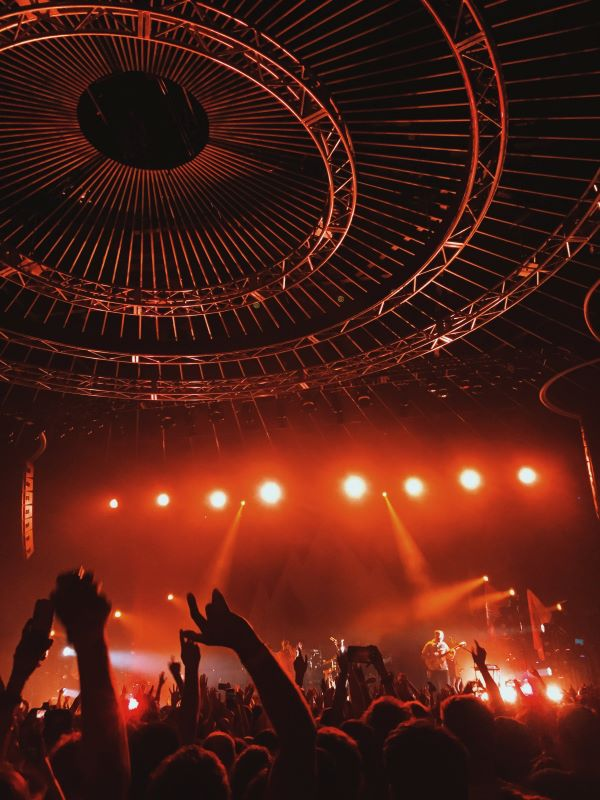
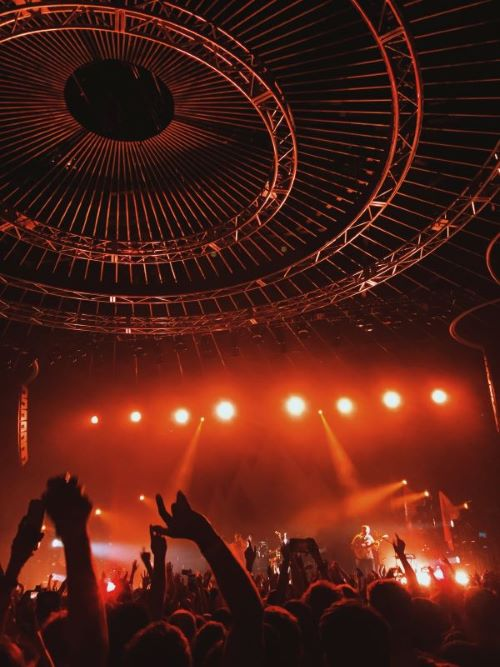
resize and convert images

diff --git a/index.html b/index.html
@@ -74,16 +74,16 @@
 				</div>
 				<div class="carousel-inner">
 					<div class="carousel-item active">
-						<img src="./assets/images/slider/walking-man2.jpg" 
-							srcset="./assets/images/slider/walking-man2.jpg 1920w, ./assets/images/mobile/mob-sl-2.jpg 400w" class="d-block w-100" alt="Un homme marche sur un passage piéton">
+						<img src="./assets/images/slider/walking-man.webp" 
+							srcset="./assets/images/slider/walking-man.webp 1920w, ./assets/images/mobile/mob-sl-2.webp 400w" class="d-block w-100" alt="Un homme marche sur un passage piéton">
 					</div>
 					<div class="carousel-item">
-						<img src="./assets/images/slider/audience2.jpg" 
-							srcset="./assets/images/slider/audience2.jpg 1920w, ./assets/images/mobile/mob-sl-1.jpg 400w" class="d-block w-100" alt="Le public profite du concert">
+						<img src="./assets/images/slider/audience.webp" 
+							srcset="./assets/images/slider/audience.webp 1920w, ./assets/images/mobile/mob-sl-1.webp 400w" class="d-block w-100" alt="Le public profite du concert">
 					</div>
 					<div class="carousel-item">
-						<img src="./assets/images/slider/wedding2.jpg" 
-							srcset="./assets/images/slider/wedding2.jpg 1920w, ./assets/images/mobile/mob-sl-3.jpg 400w" class="d-block w-100" alt="Les mariés s'embrassent sur la piste devant les invités">
+						<img src="./assets/images/slider/wedding.webp" 
+							srcset="./assets/images/slider/wedding.webp 1920w, ./assets/images/mobile/mob-sl-3.webp 400w" class="d-block w-100" alt="Les mariés s'embrassent sur la piste devant les invités">
 					</div>
 				</div>
 				<button class="carousel-control-prev" type="button" data-bs-target="#carouselExampleIndicators" data-bs-slide="prev">
@@ -99,7 +99,7 @@
 
 		<section id="about">
 			<div class="picture left">
-				<img src="./assets/images/nina2.jpg" srcset="./assets/images/nina2.jpg 500w" alt="Portrait de Nina Carducci">
+				<img src="./assets/images/nina2.webp" srcset="./assets/images/nina2.webp 500w" alt="Portrait de Nina Carducci">
 			</div>
 			<div id="about-me">
 				<h1 class="about-me__title">A propos de moi</h1>
@@ -113,24 +113,24 @@
 			<h1 class="title">Portfolio</h1>
 			<div class="container py-3">
 				<div class="gallery" style="display: none">
-					<img data-gallery-tag="Concert" class="gallery-item" src="./assets/images/gallery/concerts/concert-audience.jpg" 
-						srcset="./assets/images/gallery/concerts/concert-audience.jpg 600w" alt="Des bras levés pendant un concert avec la scène au second plan"/>
-					<img data-gallery-tag="Entreprises" class="gallery-item" src="./assets/images/gallery/entreprise/businessman2.jpg" 
-						srcset="./assets/images/gallery/entreprise/businessman2.jpg 500w" alt="Un homme en costume avec une cravate bordeau et une montre"/>
-					<img data-gallery-tag="Entreprises" class="gallery-item" src="./assets/images/gallery/entreprise/business-women2.jpg" 
-						srcset="./assets/images/gallery/entreprise/business-women2.jpg 500w" alt="Deux femmes rigolant lors d'une réunion de travail"/>
-					<img data-gallery-tag="Mariages" class="gallery-item" src="./assets/images/gallery/mariage/wedding-hands2.jpg" 
-						srcset="./assets/images/gallery/mariage/wedding-hands2.jpg 500w" alt="Deux paires de mains prêtes à s'enlacer"/>
-					<img data-gallery-tag="Portrait" class="gallery-item" src="./assets/images/gallery/portraits/portrait-woman2.jpg" 
-						srcset="./assets/images/gallery/portraits/portrait-woman2.jpg 500w" alt="Portrait d'un homme fermant les yeux"/>
-					<img data-gallery-tag="Mariages" class="gallery-item" src="./assets/images/gallery/mariage/wedding-couple2.jpg" 
-						srcset="./assets/images/gallery/mariage/wedding-couple2.jpg 500w" alt="Un couple de jeunes mariés qui se regarde avec un palmier derrière eux"/>
-					<img data-gallery-tag="Portrait" class="gallery-item" src="./assets/images/gallery/portraits/portrait-woman2.jpg" 
-						srcset="./assets/images/gallery/portraits/portrait-woman2.jpg 500w" alt="Portrait d'une jeune femme avec des lunettes qui regarde vers le sol"/>
-					<img data-gallery-tag="Concert" class="gallery-item" src="./assets/images/gallery/concerts/concert-singer2.jpg" 
-						srcset="./assets/images/gallery/concerts/concert-singer2.jpg 500w" alt="Un chanteur fait un signe de la main en direction de la foule"/>
-					<img data-gallery-tag="Entreprises" class="gallery-item" src="./assets/images/gallery/entreprise/business-woman2.jpg" 
-						srcset="./assets/images/gallery/entreprise/business-woman2.jpg 500w" alt="Une jeune femme assise à son bureau derrière son ordinateur en train de rigoler"/>
+					<img data-gallery-tag="Concert" class="gallery-item" src="./assets/images/gallery/concerts/concert-audience.webp" 
+						srcset="./assets/images/gallery/concerts/concert-audience.webp 600w" alt="Des bras levés pendant un concert avec la scène au second plan"/>
+					<img data-gallery-tag="Entreprises" class="gallery-item" src="./assets/images/gallery/entreprise/businessman2.webp" 
+						srcset="./assets/images/gallery/entreprise/businessman2.webp 500w" alt="Un homme en costume avec une cravate bordeau et une montre"/>
+					<img data-gallery-tag="Entreprises" class="gallery-item" src="./assets/images/gallery/entreprise/business-women2.webp" 
+						srcset="./assets/images/gallery/entreprise/business-women2.webp 500w" alt="Deux femmes rigolant lors d'une réunion de travail"/>
+					<img data-gallery-tag="Mariages" class="gallery-item" src="./assets/images/gallery/mariage/wedding-hands2.webp" 
+						srcset="./assets/images/gallery/mariage/wedding-hands2.webp 500w" alt="Deux paires de mains prêtes à s'enlacer"/>
+					<img data-gallery-tag="Portrait" class="gallery-item" src="./assets/images/gallery/portraits/portrait-woman2.webp" 
+						srcset="./assets/images/gallery/portraits/portrait-woman2.webp 500w" alt="Portrait d'un homme fermant les yeux"/>
+					<img data-gallery-tag="Mariages" class="gallery-item" src="./assets/images/gallery/mariage/wedding-couple2.webp" 
+						srcset="./assets/images/gallery/mariage/wedding-couple2.webp 500w" alt="Un couple de jeunes mariés qui se regarde avec un palmier derrière eux"/>
+					<img data-gallery-tag="Portrait" class="gallery-item" src="./assets/images/gallery/portraits/portrait-woman2.webp" 
+						srcset="./assets/images/gallery/portraits/portrait-woman2.webp 500w" alt="Portrait d'une jeune femme avec des lunettes qui regarde vers le sol"/>
+					<img data-gallery-tag="Concert" class="gallery-item" src="./assets/images/gallery/concerts/concert-singer2.webp" 
+						srcset="./assets/images/gallery/concerts/concert-singer2.webp 500w" alt="Un chanteur fait un signe de la main en direction de la foule"/>
+					<img data-gallery-tag="Entreprises" class="gallery-item" src="./assets/images/gallery/entreprise/business-woman2.webp" 
+						srcset="./assets/images/gallery/entreprise/business-woman2.webp 500w" alt="Une jeune femme assise à son bureau derrière son ordinateur en train de rigoler"/>
 				</div>
 			</div>
 			<div class="quote">
@@ -206,7 +206,7 @@
 					</form>
 				</div>
 				<div class="picture right">
-					<img src="./assets/images/camera.webp" srcset="./assets/images/camera.jpg 506w" alt="appareil photo">
+					<img src="./assets/images/camera.webp" srcset="./assets/images/camera.webp 506w" alt="appareil photo">
 				</div>
 			</div>
 	</footer>
